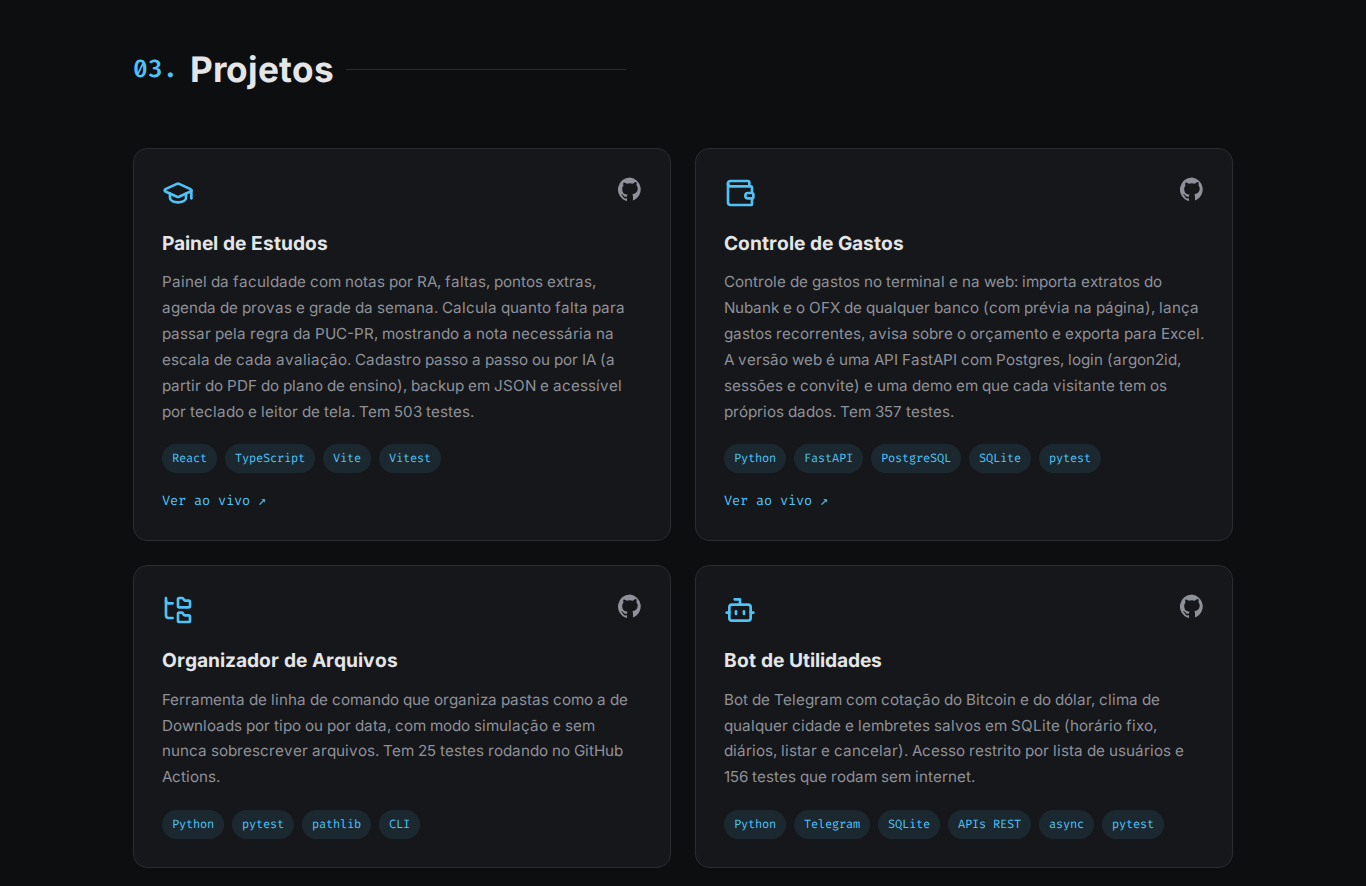
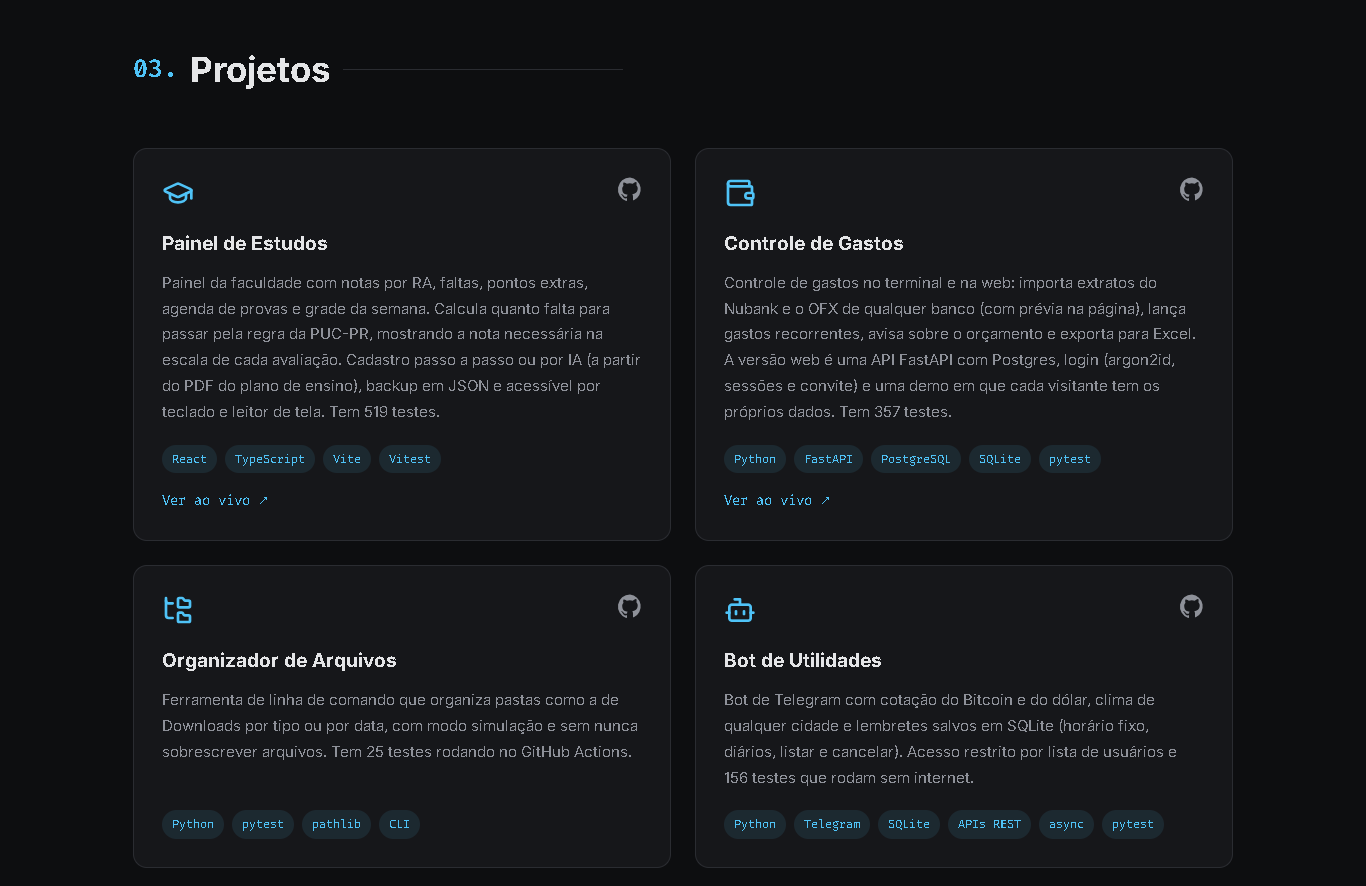
Atualiza o card do Painel de Estudos para 519 testes e refaz o print dos projetos

diff --git a/index.html b/index.html
@@ -149,7 +149,7 @@
               Painel da faculdade com notas por RA, faltas, pontos extras, agenda de provas e grade da semana. Calcula quanto
               falta para passar pela regra da PUC-PR, mostrando a nota necessária na escala de cada avaliação.
               Cadastro passo a passo ou por IA (a partir do PDF do plano de ensino), backup em JSON e
-              acessível por teclado e leitor de tela. Tem 503 testes.
+              acessível por teclado e leitor de tela. Tem 519 testes.
             </p>
             <ul class="project__tags">
               <li>React</li><li>TypeScript</li><li>Vite</li><li>Vitest</li>
